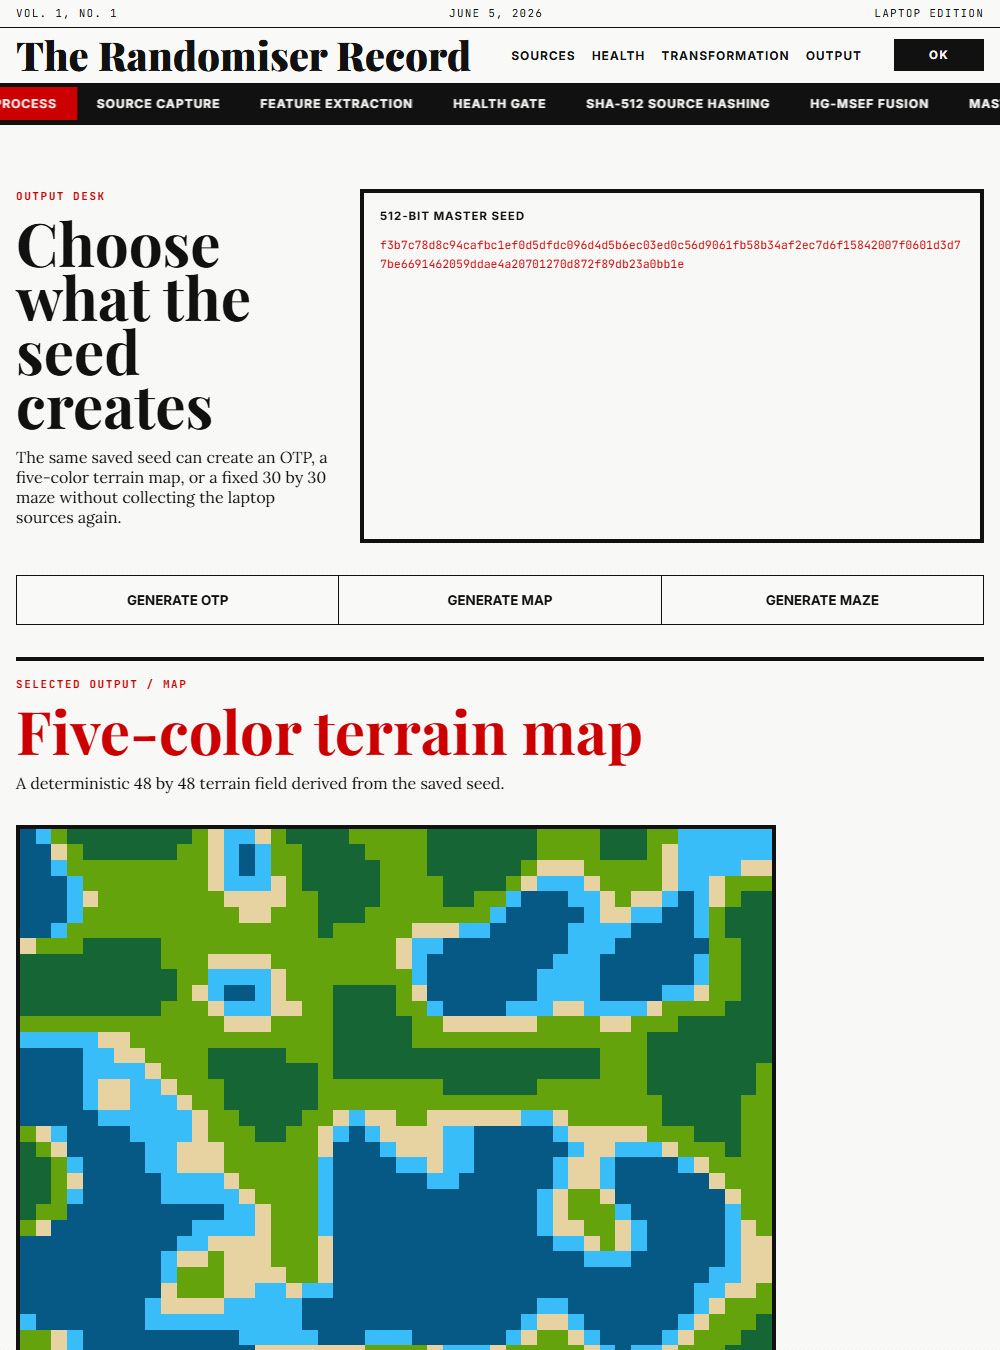
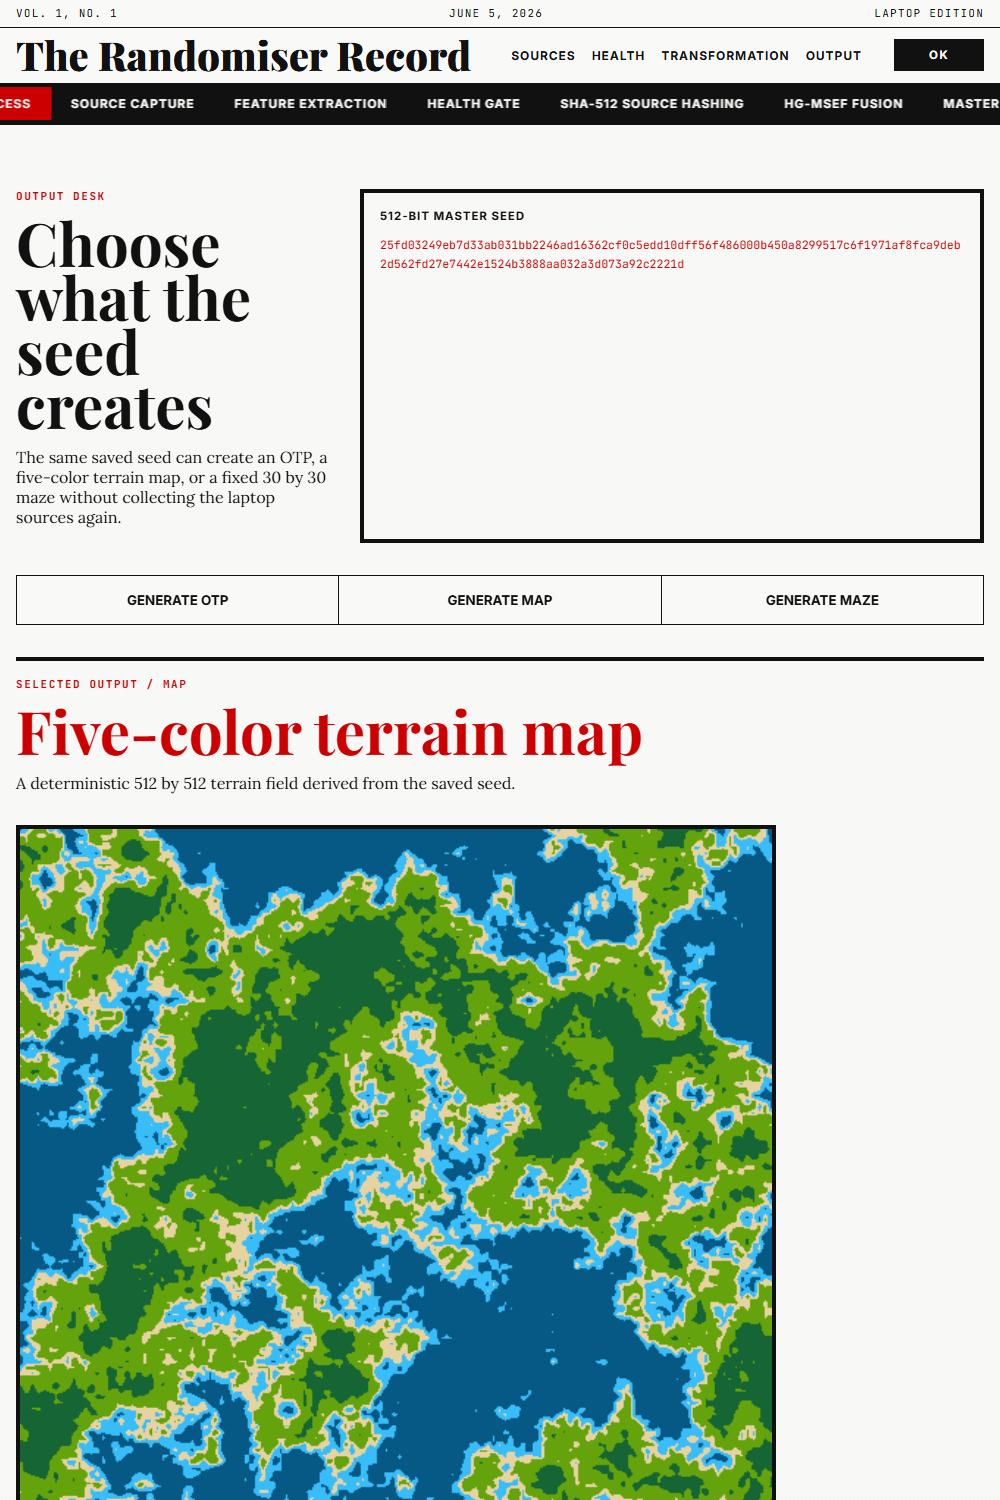
better map

diff --git a/apps/web/static/app.js b/apps/web/static/app.js
@@ -450,16 +450,40 @@ function renderOtpOutput(payload, artifact) {
 }
 
 function renderMapOutput(payload, artifact) {
-  const colors = Object.fromEntries(payload.palette.map((item) => [item.index, item.color]));
-  const cells = payload.cells.flat().map((cell) => `<i style="background:${escapeHtml(colors[cell])}"></i>`).join("");
   const legend = payload.palette.map((item) => `<span><i style="background:${escapeHtml(item.color)}"></i>${escapeHtml(item.label)}</span>`).join("");
   return `<article class="selected-output">
     <div><p class="section-label">Selected output / Map</p><h3>Five-color terrain map</h3>
       <p>A deterministic ${payload.width} by ${payload.height} terrain field derived from the saved seed.</p></div>
-    <div class="terrain-map" style="--map-columns:${payload.width}" role="img" aria-label="Generated terrain map">${cells}</div>
+    <canvas id="terrainMapCanvas" class="terrain-map" width="${payload.width}" height="${payload.height}" role="img" aria-label="Generated ${payload.width} by ${payload.height} terrain map"></canvas>
     <div class="terrain-legend">${legend}</div>
     <a class="artifact-link" href="${escapeHtml(artifact)}">Open saved map JSON</a>
   </article>`;
+}
+
+function drawTerrainMap(payload) {
+  const canvas = document.querySelector("#terrainMapCanvas");
+  const context = canvas?.getContext("2d");
+  if (!context) return;
+
+  const colors = Object.fromEntries(payload.palette.map((item) => {
+    const value = item.color.slice(1);
+    return [item.index, [
+      Number.parseInt(value.slice(0, 2), 16),
+      Number.parseInt(value.slice(2, 4), 16),
+      Number.parseInt(value.slice(4, 6), 16),
+    ]];
+  }));
+  const image = context.createImageData(payload.width, payload.height);
+  let offset = 0;
+  payload.cells.forEach((row) => row.forEach((cell) => {
+    const [red, green, blue] = colors[cell];
+    image.data[offset] = red;
+    image.data[offset + 1] = green;
+    image.data[offset + 2] = blue;
+    image.data[offset + 3] = 255;
+    offset += 4;
+  }));
+  context.putImageData(image, 0, 0);
 }
 
 function mazeSvg(payload) {
@@ -515,6 +539,7 @@ async function requestOutput(kind, button) {
       : kind === "map"
         ? renderMapOutput(result.output, result.artifact)
         : renderMazeOutput(result.output, result.artifact);
+    if (kind === "map") drawTerrainMap(result.output);
   } catch (error) {
     outputResult.innerHTML = `<div class="missing-evidence"><p class="section-label">Output generation failed</p><p>${escapeHtml(error.message)}</p></div>`;
   } finally {

diff --git a/apps/web/static/css/app.css b/apps/web/static/css/app.css
@@ -1116,16 +1116,12 @@ figcaption {
 }
 
 .terrain-map {
-  display: grid;
-  grid-template-columns: repeat(var(--map-columns), minmax(0, 1fr));
+  display: block;
   width: min(100%, 760px);
+  height: auto;
   aspect-ratio: 1;
   border: 4px solid var(--ink);
-  image-rendering: pixelated;
-}
-
-.terrain-map i {
-  display: block;
+  image-rendering: auto;
 }
 
 .terrain-legend {

diff --git a/src/randomiser/generators/terrain_map.py b/src/randomiser/generators/terrain_map.py
@@ -7,8 +7,8 @@ import numpy as np
 from randomiser.core.hashing import sha512_digest
 from randomiser.generators.seed_derivation import derive_child_seed, expand_seed
 
-DEFAULT_WIDTH = 48
-DEFAULT_HEIGHT = 48
+DEFAULT_WIDTH = 512
+DEFAULT_HEIGHT = 512
 PALETTE = [
     {"index": 0, "name": "deep_ocean", "label": "Deep ocean", "color": "#075985"},
     {"index": 1, "name": "shallow_ocean", "label": "Shallow ocean", "color": "#38bdf8"},
@@ -18,16 +18,37 @@ PALETTE = [
 ]
 
 
-def _smooth(values: np.ndarray, rounds: int = 6) -> np.ndarray:
-    current = values
-    for _ in range(rounds):
-        padded = np.pad(current, 1, mode="edge")
-        current = sum(
-            padded[row:row + current.shape[0], column:column + current.shape[1]]
-            for row in range(3)
-            for column in range(3)
-        ) / 9.0
-    return current
+def _resize_bilinear(values: np.ndarray, width: int, height: int) -> np.ndarray:
+    source_height, source_width = values.shape
+    x_positions = np.linspace(0, source_width - 1, width)
+    x_left = np.floor(x_positions).astype(int)
+    x_right = np.minimum(x_left + 1, source_width - 1)
+    x_weight = x_positions - x_left
+    horizontal = (
+        values[:, x_left] * (1.0 - x_weight)
+        + values[:, x_right] * x_weight
+    )
+
+    y_positions = np.linspace(0, source_height - 1, height)
+    y_top = np.floor(y_positions).astype(int)
+    y_bottom = np.minimum(y_top + 1, source_height - 1)
+    y_weight = (y_positions - y_top)[:, np.newaxis]
+    return horizontal[y_top] * (1.0 - y_weight) + horizontal[y_bottom] * y_weight
+
+
+def _noise_layer(
+    seed: bytes,
+    *,
+    width: int,
+    height: int,
+    divisor: int,
+    namespace: str,
+) -> np.ndarray:
+    layer_width = min(width, max(2, width // divisor))
+    layer_height = min(height, max(2, height // divisor))
+    raw = expand_seed(seed, layer_width * layer_height, namespace=namespace)
+    values = np.frombuffer(raw, dtype=np.uint8).reshape(layer_height, layer_width).astype(np.float64)
+    return _resize_bilinear(values, width, height)
 
 
 def generate_terrain_map(
@@ -39,9 +60,32 @@ def generate_terrain_map(
     if width < 5 or height < 5:
         raise ValueError("map dimensions must be at least 5 by 5")
     child_seed = derive_child_seed(seed_hex, "map")
-    raw = expand_seed(child_seed, width * height, namespace="terrain")
-    elevation = np.frombuffer(raw, dtype=np.uint8).reshape(height, width).astype(np.float64)
-    elevation = _smooth(elevation)
+    elevation = (
+        _noise_layer(
+            child_seed,
+            width=width,
+            height=height,
+            divisor=64,
+            namespace="terrain-large",
+        )
+        * 0.58
+        + _noise_layer(
+            child_seed,
+            width=width,
+            height=height,
+            divisor=16,
+            namespace="terrain-medium",
+        )
+        * 0.30
+        + _noise_layer(
+            child_seed,
+            width=width,
+            height=height,
+            divisor=4,
+            namespace="terrain-detail",
+        )
+        * 0.12
+    )
     thresholds = np.quantile(elevation, [0.28, 0.42, 0.54, 0.84])
     cells = np.digitize(elevation, thresholds, right=True).astype(int)
     return {

diff --git a/tests/unit/test_output_generators.py b/tests/unit/test_output_generators.py
@@ -26,8 +26,10 @@ def test_terrain_map_is_deterministic_and_uses_five_declared_categories() -> Non
     second = generate_terrain_map(MASTER_SEED)
 
     assert first == second
-    assert first["width"] == 48
-    assert first["height"] == 48
+    assert first["width"] == 512
+    assert first["height"] == 512
+    assert len(first["cells"]) == 512
+    assert all(len(row) == 512 for row in first["cells"])
     assert len(first["palette"]) == 5
     assert {item["name"] for item in first["palette"]} == {
         "deep_ocean",
@@ -37,6 +39,26 @@ def test_terrain_map_is_deterministic_and_uses_five_declared_categories() -> Non
         "highland",
     }
     assert {cell for row in first["cells"] for cell in row} == {0, 1, 2, 3, 4}
+
+
+def test_terrain_map_forms_coherent_regions_at_high_resolution() -> None:
+    terrain_map = generate_terrain_map(MASTER_SEED)
+    cells = terrain_map["cells"]
+    height = terrain_map["height"]
+    width = terrain_map["width"]
+
+    matching_neighbors = sum(
+        cells[row][column] == cells[row][column + 1]
+        for row in range(height)
+        for column in range(width - 1)
+    ) + sum(
+        cells[row][column] == cells[row + 1][column]
+        for row in range(height - 1)
+        for column in range(width)
+    )
+    neighbor_pairs = height * (width - 1) + (height - 1) * width
+
+    assert matching_neighbors / neighbor_pairs > 0.85
 
 
 def test_maze_is_fixed_connected_perfect_and_has_closed_outer_boundary() -> None:

diff --git a/README.md b/README.md
@@ -38,7 +38,7 @@ others.
   </tr>
   <tr>
     <td>Leading zeros are preserved. Rejection sampling avoids simple modulo bias.</td>
-    <td>Deep ocean, shallow ocean, beach, land, and highland form a deterministic 48 x 48 grid.</td>
+    <td>Deep ocean, shallow ocean, beach, land, and highland form a deterministic 512 x 512 grid.</td>
     <td>The maze is connected, has one route between any two cells, and keeps every outside wall closed.</td>
   </tr>
 </table>
@@ -144,9 +144,11 @@ hash.
 
 ### Terrain map
 
-The map generator expands the map child seed into a 48 x 48 byte field,
-smooths the field over six rounds, and divides the elevation values into five
-quantile-based terrain categories:
+The map generator expands the map child seed into three deterministic noise
+layers. Large, medium, and detail layers are resized with bilinear
+interpolation, blended into a 512 x 512 elevation field, and divided into five
+quantile-based terrain categories. The web app draws the result on one canvas
+instead of creating 262,144 separate page elements.
 
 | Index | Terrain | Color |
 | ---: | --- | --- |
